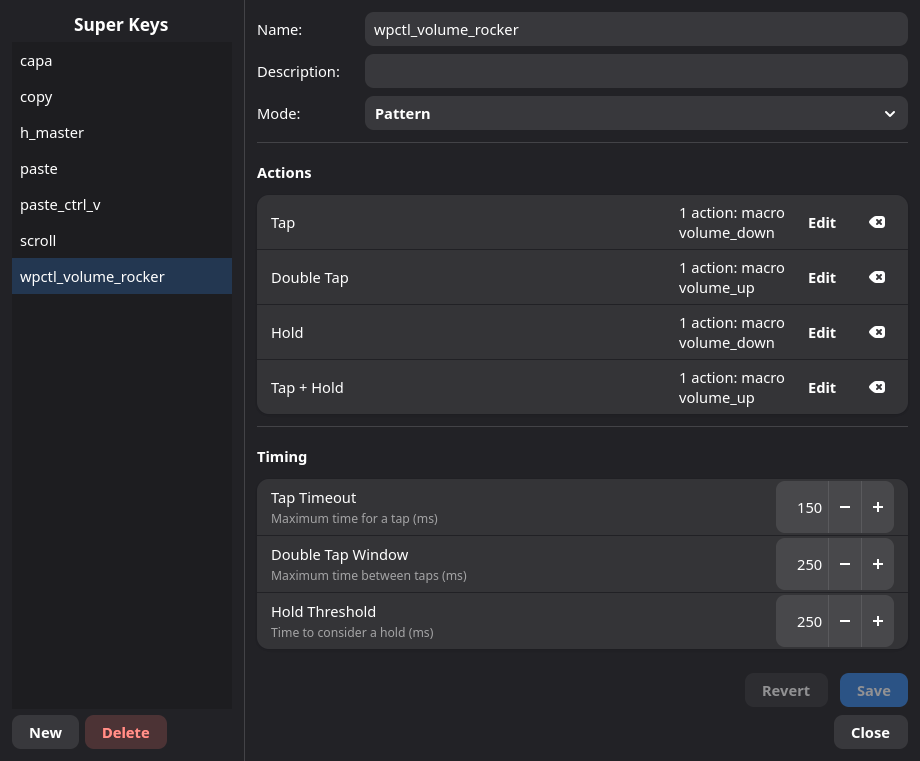
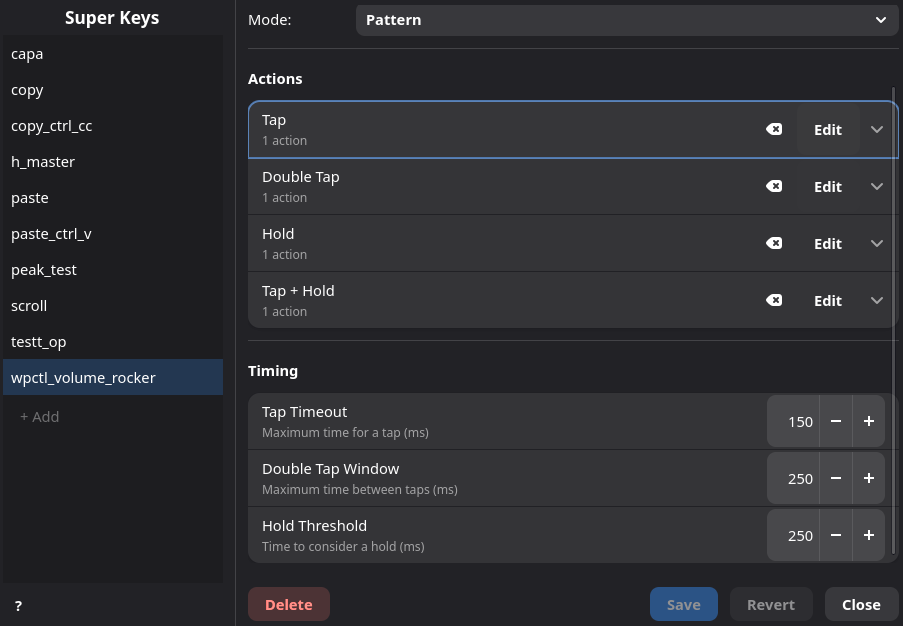
Use ExpanderRow for superkey action list display
- Replace action label with Adw.ExpanderRow child rows
- Add scrollable editor panel
- Extract _describe_superkey_dialog_action helper
- Split example screenshots into actions and timings
- Add tests for expander row populate and clear

diff --git a/keymasq/gui/widgets/superkey_dialog.py b/keymasq/gui/widgets/superkey_dialog.py
@@ -1,5 +1,4 @@
 import logging
-from collections.abc import Sequence
 
 import gi
 
@@ -101,6 +100,23 @@ def _describe_pattern_superkey_action(
     else:
         label = describe_mapping_action_verbose(superkey_action_to_mapping_action(action))
     return _append_action_state_markers(label, action)
+
+
+def _describe_superkey_dialog_action(action: object, row_mode: str) -> str:
+    if row_mode == "pattern":
+        return _describe_pattern_superkey_action(
+            action,
+            exec_limit=40,
+            exec_prefix="Exec -> ",
+            macro_prefix="Macro -> ",
+            target_separator=" -> ",
+            title_case_target_type=True,
+        )
+    return (
+        _append_action_state_markers(describe_mapping_action_verbose(action), action)
+        if isinstance(action, MappingAction)
+        else "Unknown action"
+    )
 
 
 class ActionListDialog(Adw.Dialog):
@@ -245,20 +261,7 @@ class ActionListDialog(Adw.Dialog):
         self._update_buttons(self.list_box.get_selected_row())
 
     def _describe_action(self, action: object) -> str:
-        if self._list_mode == "pattern":
-            return _describe_pattern_superkey_action(
-                action,
-                exec_limit=40,
-                exec_prefix="Exec -> ",
-                macro_prefix="Macro -> ",
-                target_separator=" -> ",
-                title_case_target_type=True,
-            )
-        return (
-            _append_action_state_markers(describe_mapping_action_verbose(action), action)
-            if isinstance(action, MappingAction)
-            else "Unknown action"
-        )
+        return _describe_superkey_dialog_action(action, self._list_mode)
 
     def _selected_index(self) -> int | None:
         row = self.list_box.get_selected_row()
@@ -483,7 +486,6 @@ class SuperkeyDialog(Adw.Dialog):
 
         self.editor_box = Gtk.Box(orientation=Gtk.Orientation.VERTICAL, spacing=12)
         self.editor_box.set_sensitive(False)
-        self.editor_box.set_vexpand(True)
 
         fields_grid = Gtk.Grid()
         fields_grid.set_column_spacing(12)
@@ -537,14 +539,17 @@ class SuperkeyDialog(Adw.Dialog):
         self.actions_group.add(self.tap_hold_row)
 
         self.overload_row = self._build_action_row("Main Actions", "overload", "overload")
-        self.overload_row.set_subtitle("Held while pressed, released when you let go")
+        self.overload_row._static_description = "Held while pressed, released when you let go"
+        self._refresh_child_rows(self.overload_row)
         self.actions_group.add(self.overload_row)
 
         self.overload_down_row = self._build_action_row("On Press", "overload_down", "overload")
-        self.overload_down_row.set_subtitle("Runs once when the key is pressed")
+        self.overload_down_row._static_description = "Runs once when the key is pressed"
+        self._refresh_child_rows(self.overload_down_row)
 
         self.overload_up_row = self._build_action_row("On Release", "overload_up", "overload")
-        self.overload_up_row.set_subtitle("Runs once when the key is released")
+        self.overload_up_row._static_description = "Runs once when the key is released"
+        self._refresh_child_rows(self.overload_up_row)
 
         self.overload_pulse_group = Adw.PreferencesGroup()
         self.overload_pulse_group.set_title("On Press / Release")
@@ -589,7 +594,12 @@ class SuperkeyDialog(Adw.Dialog):
         self.timing_group.add(self.hold_threshold_row)
 
         self.editor_box.append(self.timing_group)
-        self.right_box.append(self.editor_box)
+
+        editor_scrolled = Gtk.ScrolledWindow()
+        editor_scrolled.set_vexpand(True)
+        editor_scrolled.set_policy(Gtk.PolicyType.NEVER, Gtk.PolicyType.AUTOMATIC)
+        editor_scrolled.set_child(self.editor_box)
+        self.right_box.append(editor_scrolled)
 
         footer = Gtk.Box(orientation=Gtk.Orientation.HORIZONTAL, spacing=12)
         footer.set_hexpand(True)
@@ -652,18 +662,16 @@ class SuperkeyDialog(Adw.Dialog):
         row.add_suffix(spin)
         return row, spin
 
-    def _build_action_row(self, title: str, action_key: str, row_mode: str) -> Adw.ActionRow:
-        row = Adw.ActionRow()
+    def _build_action_row(self, title: str, action_key: str, row_mode: str) -> Adw.ExpanderRow:
+        row = Adw.ExpanderRow()
         row.set_title(title)
         row._action_key = action_key
         row._row_mode = row_mode
         row._action_items = []
-
-        label = Gtk.Label(label="(none)")
-        label.set_xalign(1.0)
-        label.set_wrap(True)
-        row.add_suffix(label)
-        row._action_label = label
+        row._child_rows = []
+        row._static_description = None
+        row.set_subtitle("(none)")
+        row.set_enable_expansion(False)
 
         edit_btn = Gtk.Button(label="Edit")
         edit_btn.add_css_class("flat")
@@ -793,70 +801,46 @@ class SuperkeyDialog(Adw.Dialog):
 
     def _populate_action_row(
         self,
-        row: Adw.ActionRow,
+        row: Adw.ExpanderRow,
         actions: list[SuperkeyAction] | list[MappingAction],
     ) -> None:
         row._action_items = list(actions)
-        row._action_label.set_label(self._describe_action_list(row._action_items, row._row_mode))
-        tooltip = self._describe_action_tooltip(row._action_items, row._row_mode)
-        row.set_tooltip_text(tooltip)
-        row._action_label.set_tooltip_text(tooltip)
+        self._refresh_child_rows(row)
 
-    def _describe_action_list(self, actions: Sequence[object], row_mode: str) -> str:
-        if not actions:
-            return "(none)"
+    def _describe_single_action(self, action: object, row_mode: str) -> str:
+        return _describe_superkey_dialog_action(action, row_mode)
 
-        if row_mode == "pattern":
-            labels = [
-                _describe_pattern_superkey_action(
-                    action,
-                    exec_limit=20,
-                    exec_prefix="exec ",
-                    macro_prefix="macro ",
-                    target_separator=" ",
-                    title_case_target_type=False,
-                )
-                for action in actions[:2]
-            ]
+    def _refresh_child_rows(self, row: Adw.ExpanderRow) -> None:
+        for child in row._child_rows:
+            row.remove(child)
+        row._child_rows = []
+
+        actions = list(row._action_items)
+        subtitle_parts: list[str] = []
+        if row._static_description:
+            subtitle_parts.append(row._static_description)
+        if actions:
+            noun = "action" if len(actions) == 1 else "actions"
+            subtitle_parts.append(f"{len(actions)} {noun}")
         else:
-            labels = [
-                describe_mapping_action_verbose(action)
-                if isinstance(action, MappingAction)
-                else "Unknown action"
-                for action in actions[:2]
-            ]
+            subtitle_parts.append("(none)")
+        row.set_subtitle("\n".join(subtitle_parts))
 
-        if len(actions) > 2:
-            labels.append("...")
-
-        suffix = ", ".join(labels)
-        noun = "action" if len(actions) == 1 else "actions"
-        return f"{len(actions)} {noun}: {suffix}"
-
-    def _describe_action_tooltip(self, actions: Sequence[object], row_mode: str) -> str:
         if not actions:
-            return "(none)"
+            row.set_enable_expansion(False)
+            row.set_expanded(False)
+            return
 
-        lines: list[str] = []
+        row.set_enable_expansion(True)
+        row.set_expanded(True)
         for index, action in enumerate(actions, start=1):
-            if row_mode == "pattern":
-                description = _describe_pattern_superkey_action(
-                    action,
-                    exec_limit=20,
-                    exec_prefix="exec ",
-                    macro_prefix="macro ",
-                    target_separator=" ",
-                    title_case_target_type=False,
-                )
-            else:
-                description = (
-                    describe_mapping_action_verbose(action)
-                    if isinstance(action, MappingAction)
-                    else "Unknown action"
-                )
-                description = _append_action_state_markers(description, action)
-            lines.append(f"{index}. {description}")
-        return "\n".join(lines)
+            child = Adw.ActionRow()
+            child.set_use_markup(False)
+            child.set_title_lines(0)
+            description = self._describe_single_action(action, row._row_mode)
+            child.set_title(f"{index}. {description}")
+            row.add_row(child)
+            row._child_rows.append(child)
 
     def _on_mode_changed(self, _dropdown, _param) -> None:
         self._update_mode_visibility()
@@ -992,7 +976,7 @@ class SuperkeyDialog(Adw.Dialog):
 
         self.emit("superkey-saved", name)
 
-    def _on_edit_action_clicked(self, _button, row: Adw.ActionRow) -> None:
+    def _on_edit_action_clicked(self, _button, row: Adw.ExpanderRow) -> None:
         title = (
             f"Edit {row.get_title()} Actions"
             if row._row_mode == "pattern"
@@ -1008,19 +992,14 @@ class SuperkeyDialog(Adw.Dialog):
         dialog.connect("actions-selected", self._on_actions_selected, row)
         dialog.present(self._parent)
 
-    def _on_actions_selected(self, _dialog, actions: list[object], row: Adw.ActionRow) -> None:
+    def _on_actions_selected(self, _dialog, actions: list[object], row: Adw.ExpanderRow) -> None:
         row._action_items = list(actions)
-        row._action_label.set_label(self._describe_action_list(row._action_items, row._row_mode))
-        tooltip = self._describe_action_tooltip(row._action_items, row._row_mode)
-        row.set_tooltip_text(tooltip)
-        row._action_label.set_tooltip_text(tooltip)
+        self._refresh_child_rows(row)
         self._on_modified()
 
-    def _on_clear_action_clicked(self, _button, row: Adw.ActionRow) -> None:
+    def _on_clear_action_clicked(self, _button, row: Adw.ExpanderRow) -> None:
         row._action_items = []
-        row._action_label.set_label("(none)")
-        row.set_tooltip_text("(none)")
-        row._action_label.set_tooltip_text("(none)")
+        self._refresh_child_rows(row)
         self._on_modified()
 
     def _on_close_clicked(self, _button: Gtk.Button) -> None:

diff --git a/tests/gui/test_gui_demo_and_dialogs.py b/tests/gui/test_gui_demo_and_dialogs.py
@@ -622,7 +622,8 @@ class TestDialogConstruction:
 
     def test_superkey_dialog_constructs_without_missing_right_panel(self, temp_config_dir):
         gi.require_version("Gtk", "4.0")
-        from gi.repository import Gtk
+        gi.require_version("Adw", "1")
+        from gi.repository import Adw, Gtk
 
         from keymasq.gui.widgets.superkey_dialog import SuperkeyDialog
 
@@ -630,6 +631,85 @@ class TestDialogConstruction:
 
         assert dialog.get_child() is not None
         assert dialog.right_box.get_parent() is not None
+        assert isinstance(dialog.tap_row, Adw.ExpanderRow)
+
+    def test_superkey_dialog_action_expanders_render_empty_and_populated_rows(
+        self, temp_config_dir
+    ):
+        gi.require_version("Gtk", "4.0")
+        from gi.repository import Gtk
+
+        from keymasq.common.models import ActionType, SuperkeyAction
+        from keymasq.gui.widgets.superkey_dialog import SuperkeyDialog
+
+        dialog = SuperkeyDialog(Gtk.Window())
+
+        dialog._populate_action_row(dialog.tap_row, [])
+
+        assert dialog.tap_row.get_enable_expansion() is False
+        assert "(none)" in dialog.tap_row.get_subtitle()
+        assert dialog.tap_row._child_rows == []
+
+        dialog._populate_action_row(
+            dialog.tap_row,
+            [
+                SuperkeyAction(action_type=ActionType.KEYBOARD, target="key_a"),
+                SuperkeyAction(action_type=ActionType.PROFILE_TOGGLE, profile_name="Gaming"),
+            ],
+        )
+
+        assert dialog.tap_row.get_enable_expansion() is True
+        assert dialog.tap_row.get_expanded() is True
+        assert "2 actions" in dialog.tap_row.get_subtitle()
+        assert len(dialog.tap_row._child_rows) == 2
+        assert dialog.tap_row._child_rows[0].get_title().startswith("1. ")
+        assert dialog.tap_row._child_rows[1].get_title().startswith("2. ")
+        assert dialog.tap_row._child_rows[0].get_use_markup() is False
+
+    def test_superkey_dialog_clear_removes_expander_child_rows(self, temp_config_dir):
+        gi.require_version("Gtk", "4.0")
+        from gi.repository import Gtk
+
+        from keymasq.common.models import ActionType, SuperkeyAction
+        from keymasq.gui.widgets.superkey_dialog import SuperkeyDialog
+
+        dialog = SuperkeyDialog(Gtk.Window())
+        dialog._populate_action_row(
+            dialog.tap_row,
+            [SuperkeyAction(action_type=ActionType.KEYBOARD, target="key_a")],
+        )
+
+        assert dialog.tap_row._child_rows
+
+        dialog._on_clear_action_clicked(Gtk.Button(), dialog.tap_row)
+
+        assert dialog.tap_row._action_items == []
+        assert dialog.tap_row.get_enable_expansion() is False
+        assert dialog.tap_row._child_rows == []
+
+    def test_superkey_dialog_overload_expanders_keep_static_descriptions(
+        self, temp_config_dir
+    ):
+        gi.require_version("Gtk", "4.0")
+        from gi.repository import Gtk
+
+        from keymasq.common.models import ActionType, MappingAction
+        from keymasq.gui.widgets.superkey_dialog import SuperkeyDialog
+
+        dialog = SuperkeyDialog(Gtk.Window())
+
+        dialog._populate_action_row(dialog.overload_row, [])
+
+        assert "Held while pressed, released when you let go" in dialog.overload_row.get_subtitle()
+        assert "(none)" in dialog.overload_row.get_subtitle()
+
+        dialog._populate_action_row(
+            dialog.overload_row,
+            [MappingAction(action_type=ActionType.KEYBOARD, target="key_leftctrl")],
+        )
+
+        assert "Held while pressed, released when you let go" in dialog.overload_row.get_subtitle()
+        assert "1 action" in dialog.overload_row.get_subtitle()
 
     def test_superkey_dialog_overload_saves_press_and_release_actions(
         self, temp_config_dir, monkeypatch

diff --git a/docs/examples/volume-rocker-superkey.md b/docs/examples/volume-rocker-superkey.md
@@ -103,9 +103,9 @@ Macros bound to tap slots do not keep looping, so the same **While Held**
 macro can be used for both tap and hold patterns. Tap runs one volume step;
 hold repeats the macro until you release the key.
 
-The completed superkey should look similar to this:
+The completed superkey actions should look similar to this:
 
-![Completed volume_rocker superkey pattern setup](../assets/screenshots/examples/superkey_volume_rocker.png)
+![Completed volume_rocker superkey pattern actions](../assets/screenshots/examples/superkey_volume_rocker_actions.png)
 
 ## Timing
 
@@ -116,6 +116,8 @@ Suggested superkey timing:
 | Tap Timeout | 180-220 ms |
 | Double Tap Window | 250-350 ms |
 | Hold Threshold | 250-350 ms |
+
+![Completed volume_rocker superkey timing settings](../assets/screenshots/examples/superkey_volume_rocker_timings.png)
 
 Use shorter timings if the key feels sluggish. Use longer timings if double
 tap or tap + hold is hard to trigger reliably.
